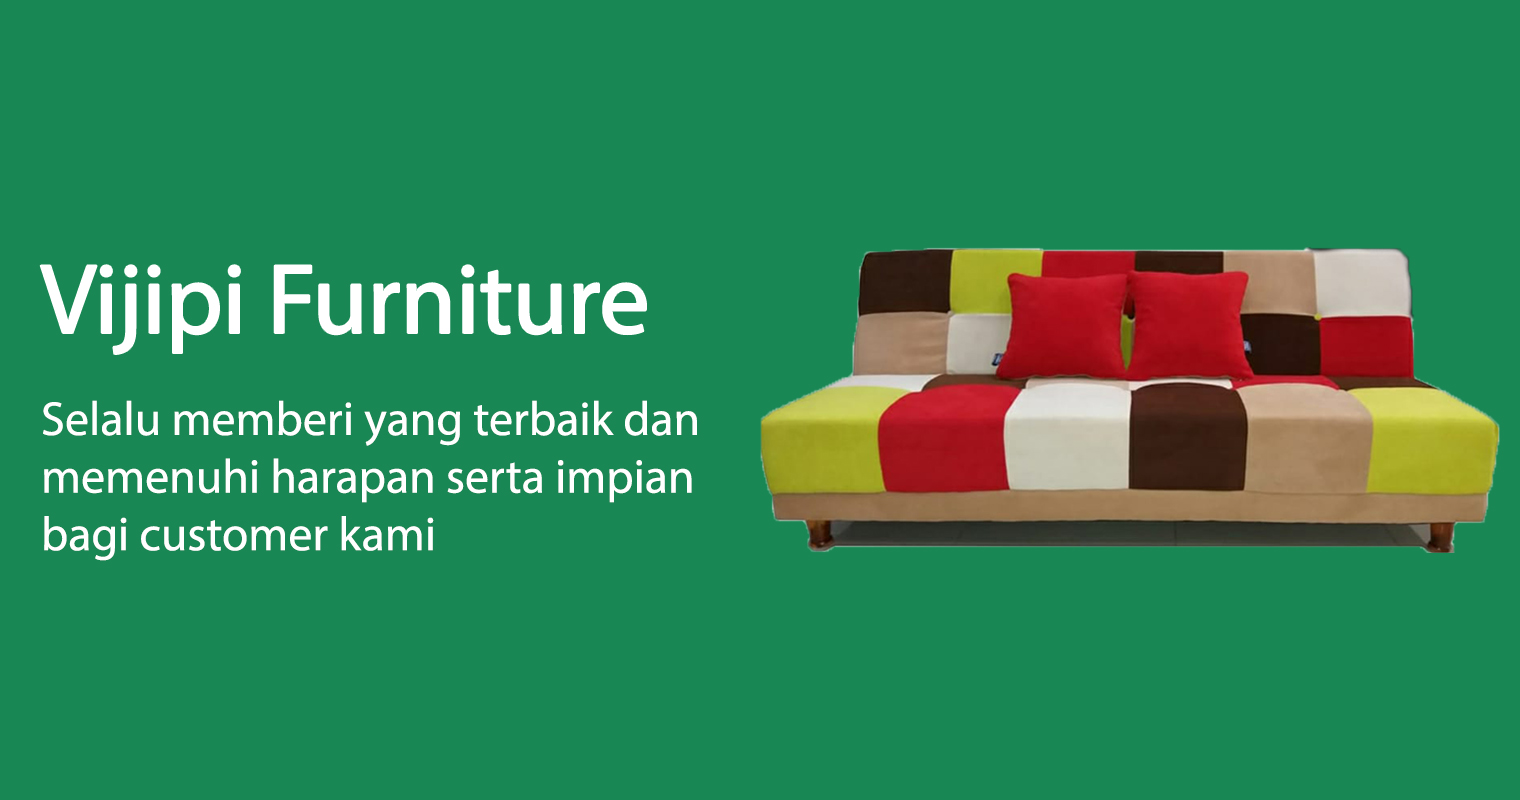
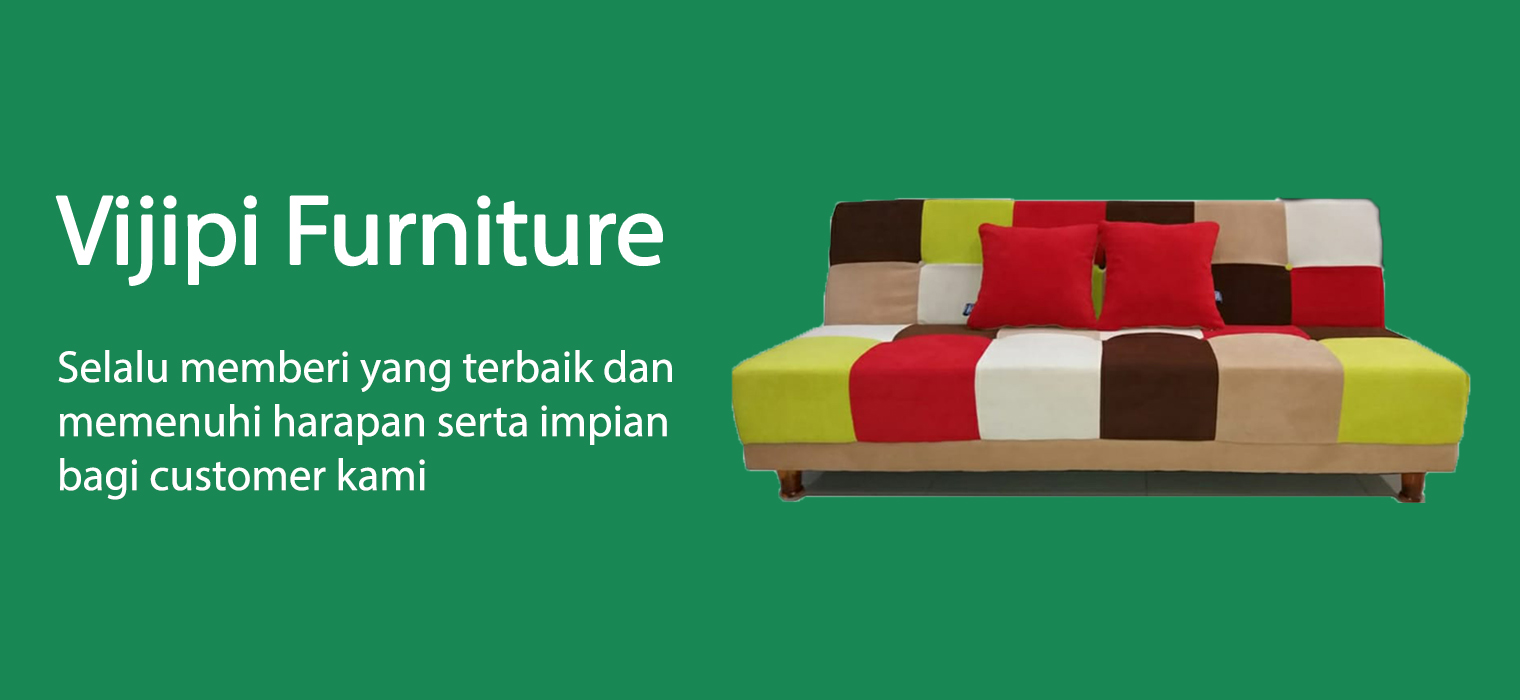
message

Changed region(s): [[0.0309, 0.27, 0.9895, 0.72], [0.0309, 0.27, 0.4329, 0.45]]

diff --git a/resources/views/home.blade.php b/resources/views/home.blade.php
@@ -13,7 +13,7 @@
     </div>
 
     <div class="img-wrap">
-        <img src="{{ asset("sofa.jpg") }}" alt="Image" class="img-fluid" >
+        <img src="{{ asset("sofas.jpg") }}" alt="Image" class="img-fluid" >
 	</div>
 
 		<!-- Start Why Choose Us Section -->
